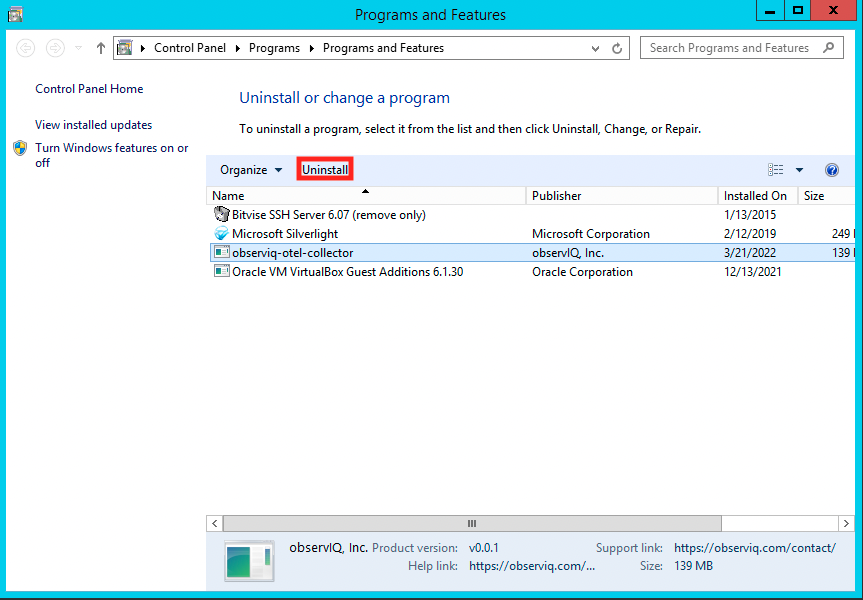
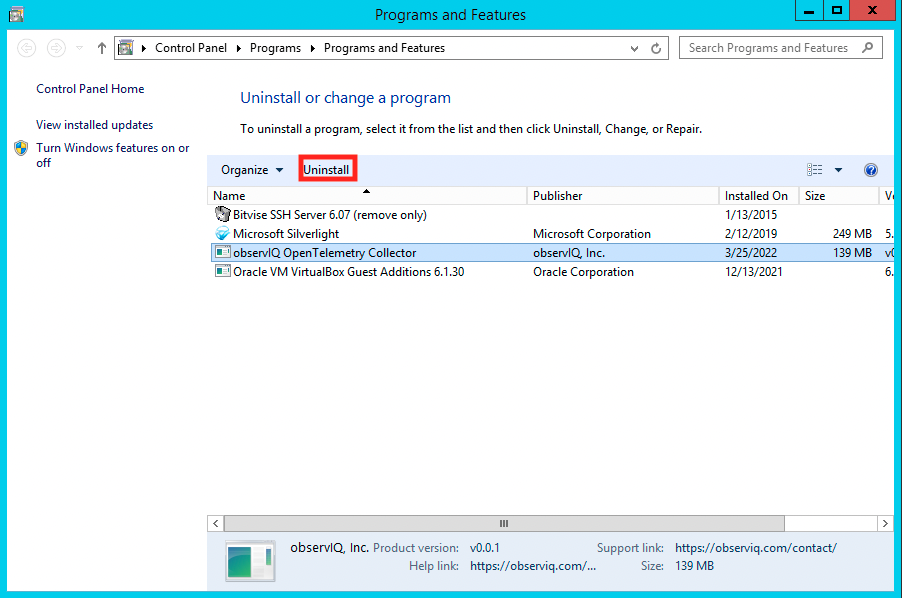
use more conventional product name (spaces, not dashes)

diff --git a/docs/installation-windows.md b/docs/installation-windows.md
@@ -74,7 +74,7 @@ To uninstall the collector on Windows, navigate to the control panel, then to th
 
 ![The control panel](./screenshots/windows/control-panel-uninstall.png)
 
-Locate the `observiq-otel-collector` entry, and select uninstall. 
+Locate the `"observIQ OpenTelemetry Collector"` entry, and select uninstall. 
 
 ![The uninstall or change a program dialog](./screenshots/windows/uninstall-collector.png)
 
@@ -82,5 +82,5 @@ Follow the wizard to complete removal of the collector.
 
 Alternatively, Powershell command below may be run to uninstall the collector.
 ```pwsh
-(Get-WmiObject -Class Win32_Product -Filter "Name = 'observiq-otel-collector'").Uninstall()
+(Get-WmiObject -Class Win32_Product -Filter "Name = 'observIQ OpenTelemetry Collector'").Uninstall()
 ```
